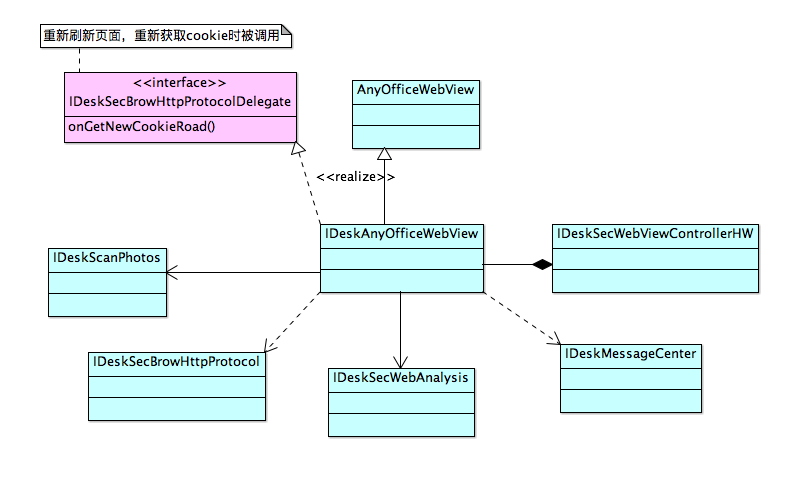
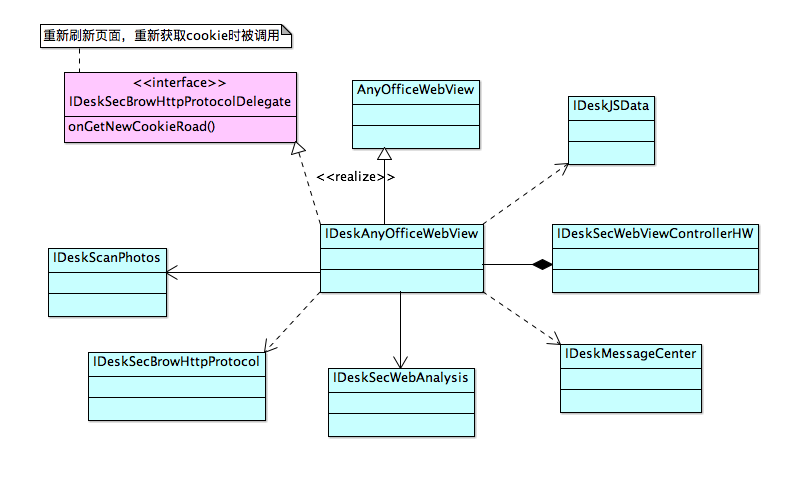
add 5 png

Changed region(s): [[0.6917, 0.1829, 0.8421, 0.3659]]

diff --git a/_posts/2017-08-12-IDeskSDK.md b/_posts/2017-08-12-IDeskSDK.md
@@ -64,15 +64,16 @@ manager.delegate = XXXLoginController;
   
   
   整个登录过程关键逻辑的时序图如下（假设登录控件器为``HWLoginViewController``，并实现了``IDeskVPNTunnelManagerDelegate``协议方法，该类的实例是```IDeskVPNTunnelManager```单例的代理）：
-  ![class png3](http://vivgoo.com/images/idesk4.png)  
+  ![class png4](http://vivgoo.com/images/idesk4.png)  
   
 #### 安全浏览器
 相关的主要类图：
-
+![class png5](http://vivgoo.com/images/idesk5.png)
 
 加载指定url并显示网页的时序图：
+![class png6](http://vivgoo.com/images/idesk6.png)  
 
-
+点击网页上图片
 
 
 
